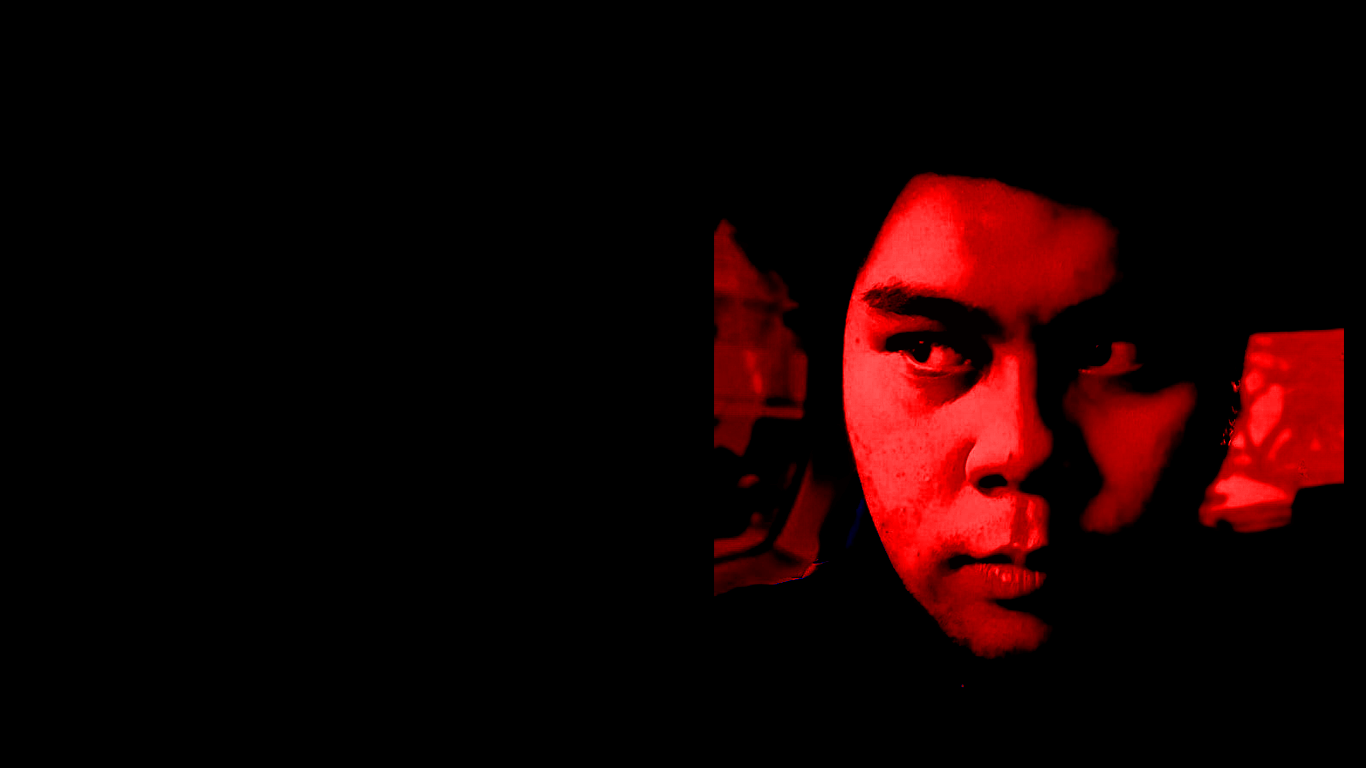
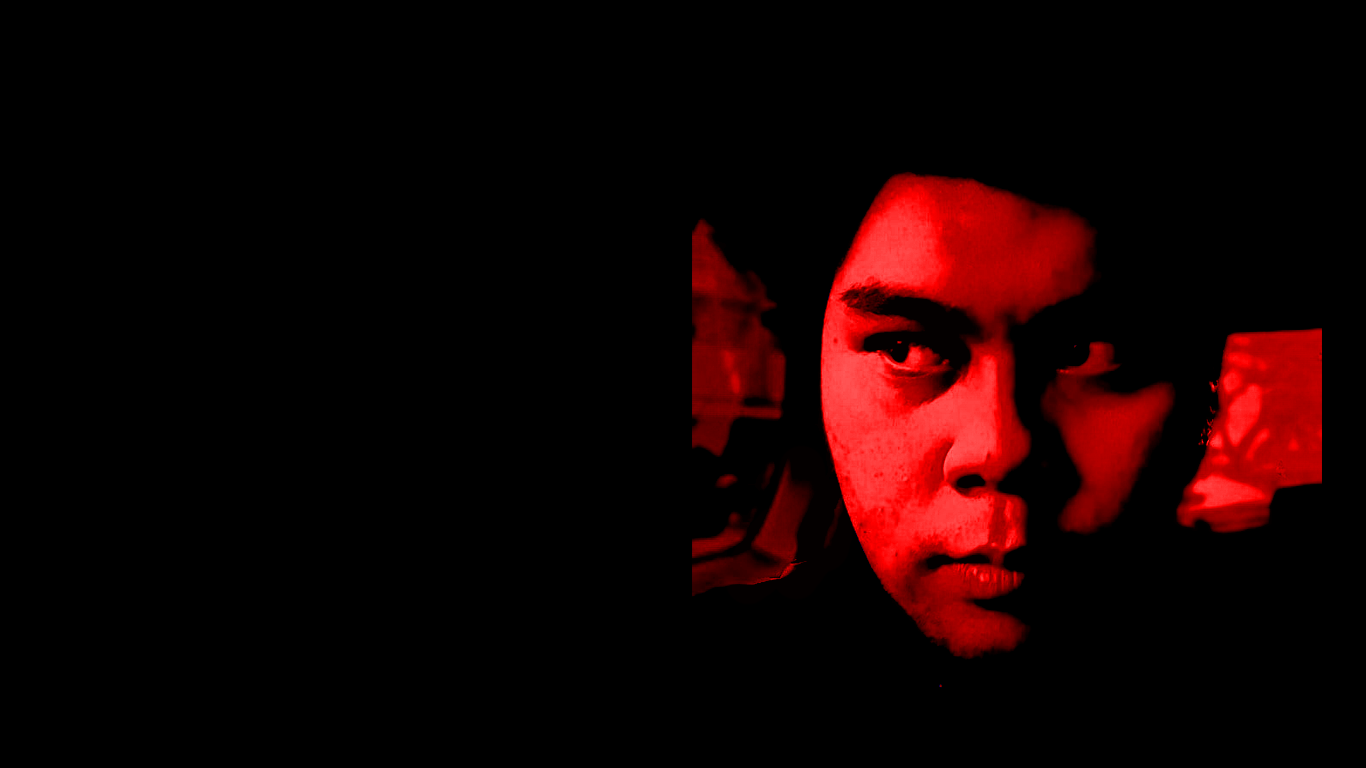
1 binaries uploaded

Changed region(s): [[0.4919, 0.2188, 0.9839, 0.875]]

diff --git a/custom.css b/custom.css
@@ -8,13 +8,14 @@
   margin: auto 0px;
   width:100%;
   height:120vh;
-  background-image:url("public/BG01.png");
+  background-image:url("public/BG02.png");
   background-size: cover;
+
   background-position:center;
 }
 
 #body {
-  background-image: url(public/BGred.jpg);
+  background-image: url("public/BGred.jpg");
   background-repeat: no-repeat;
   background-size: cover;
   background-color: #f4f4f4;
@@ -23,7 +24,7 @@
 
 h1 {
   font-family: 'Segoe UI', Tahoma, Geneva, Verdana, sans-serif;
-  letter-spacing: 10px;
+  letter-spacing: 7px;
   word-spacing: 1px;
 }
 
@@ -43,7 +44,6 @@ p {
 /* Classes */
 .logo {
 }
-
 nav {
   display: flex;
   align-items: center;
@@ -66,7 +66,7 @@ nav ul li a {
   color: #fff;
   text-decoration: none;
   position: relative;
-  font-size: 24px;
+  font-size: 20px;
   font-family: 'Franklin Gothic Medium', 'Arial Narrow', Arial, sans-serif;
   text-transform: uppercase;
 }
@@ -140,16 +140,20 @@ nav ul li a:hover::after {
   flex-wrap: wrap;
 }
 .headertext {
-  margin-top: 20px;
+  margin-top: 10px;
   font-size: 28px;
 }
 .headertext p {
+ margin: 5px;
   color: #fff;
+  font-family: 'Franklin Gothic Medium', 'Arial Narrow', Arial, sans-serif;
+  font-size: 35px;
 }
 .headertext h1 {
   color: #fff;
   font-size: 50px;
-  margin-top: 20px;
+  margin-top: 70px;
+  margin-bottom: 60px;
 }
 
 .headertext h1 span {

diff --git a/index.html b/index.html
@@ -36,12 +36,10 @@
          <br>
           <h1>
             Hi, Im <span>John</span> <br />
-            From Philippines
+            From The Philippines
           </h1>
           <p>You can call me Vhan</p>
-          <p>I'm A... <span>[To Be updated]</span></p>
-      
-         
+          <p>I'm a <span class="typing">Placeholder</span></p>
         </div>
       </div>
     </div>
@@ -85,4 +83,6 @@
     </div> -->
     <a href="#" class="fixedtotop btn">Go to Top</a>
   </body>
+  <script src="https://cdnjs.cloudflare.com/ajax/libs/typed.js/2.0.16/typed.umd.js" integrity="sha512-+2pW8xXU/rNr7VS+H62aqapfRpqFwnSQh9ap6THjsm41AxgA0MhFRtfrABS+Lx2KHJn82UOrnBKhjZOXpom2LQ==" crossorigin="anonymous" referrerpolicy="no-referrer"></script>
+  <script src="textanim.js"></script>
 </html>

diff --git a/textanim.js b/textanim.js
@@ -1,0 +1,6 @@
+var typed = new Typed(".typing",{
+  strings:["Web Developer","Web Designer","Graphic Artist","Graphic Designer","Presentation Expert","Gamer","Game Mods Hobbist"],
+  typeSpeed:100,
+  Backspeed:60,
+  loop:true,
+})
